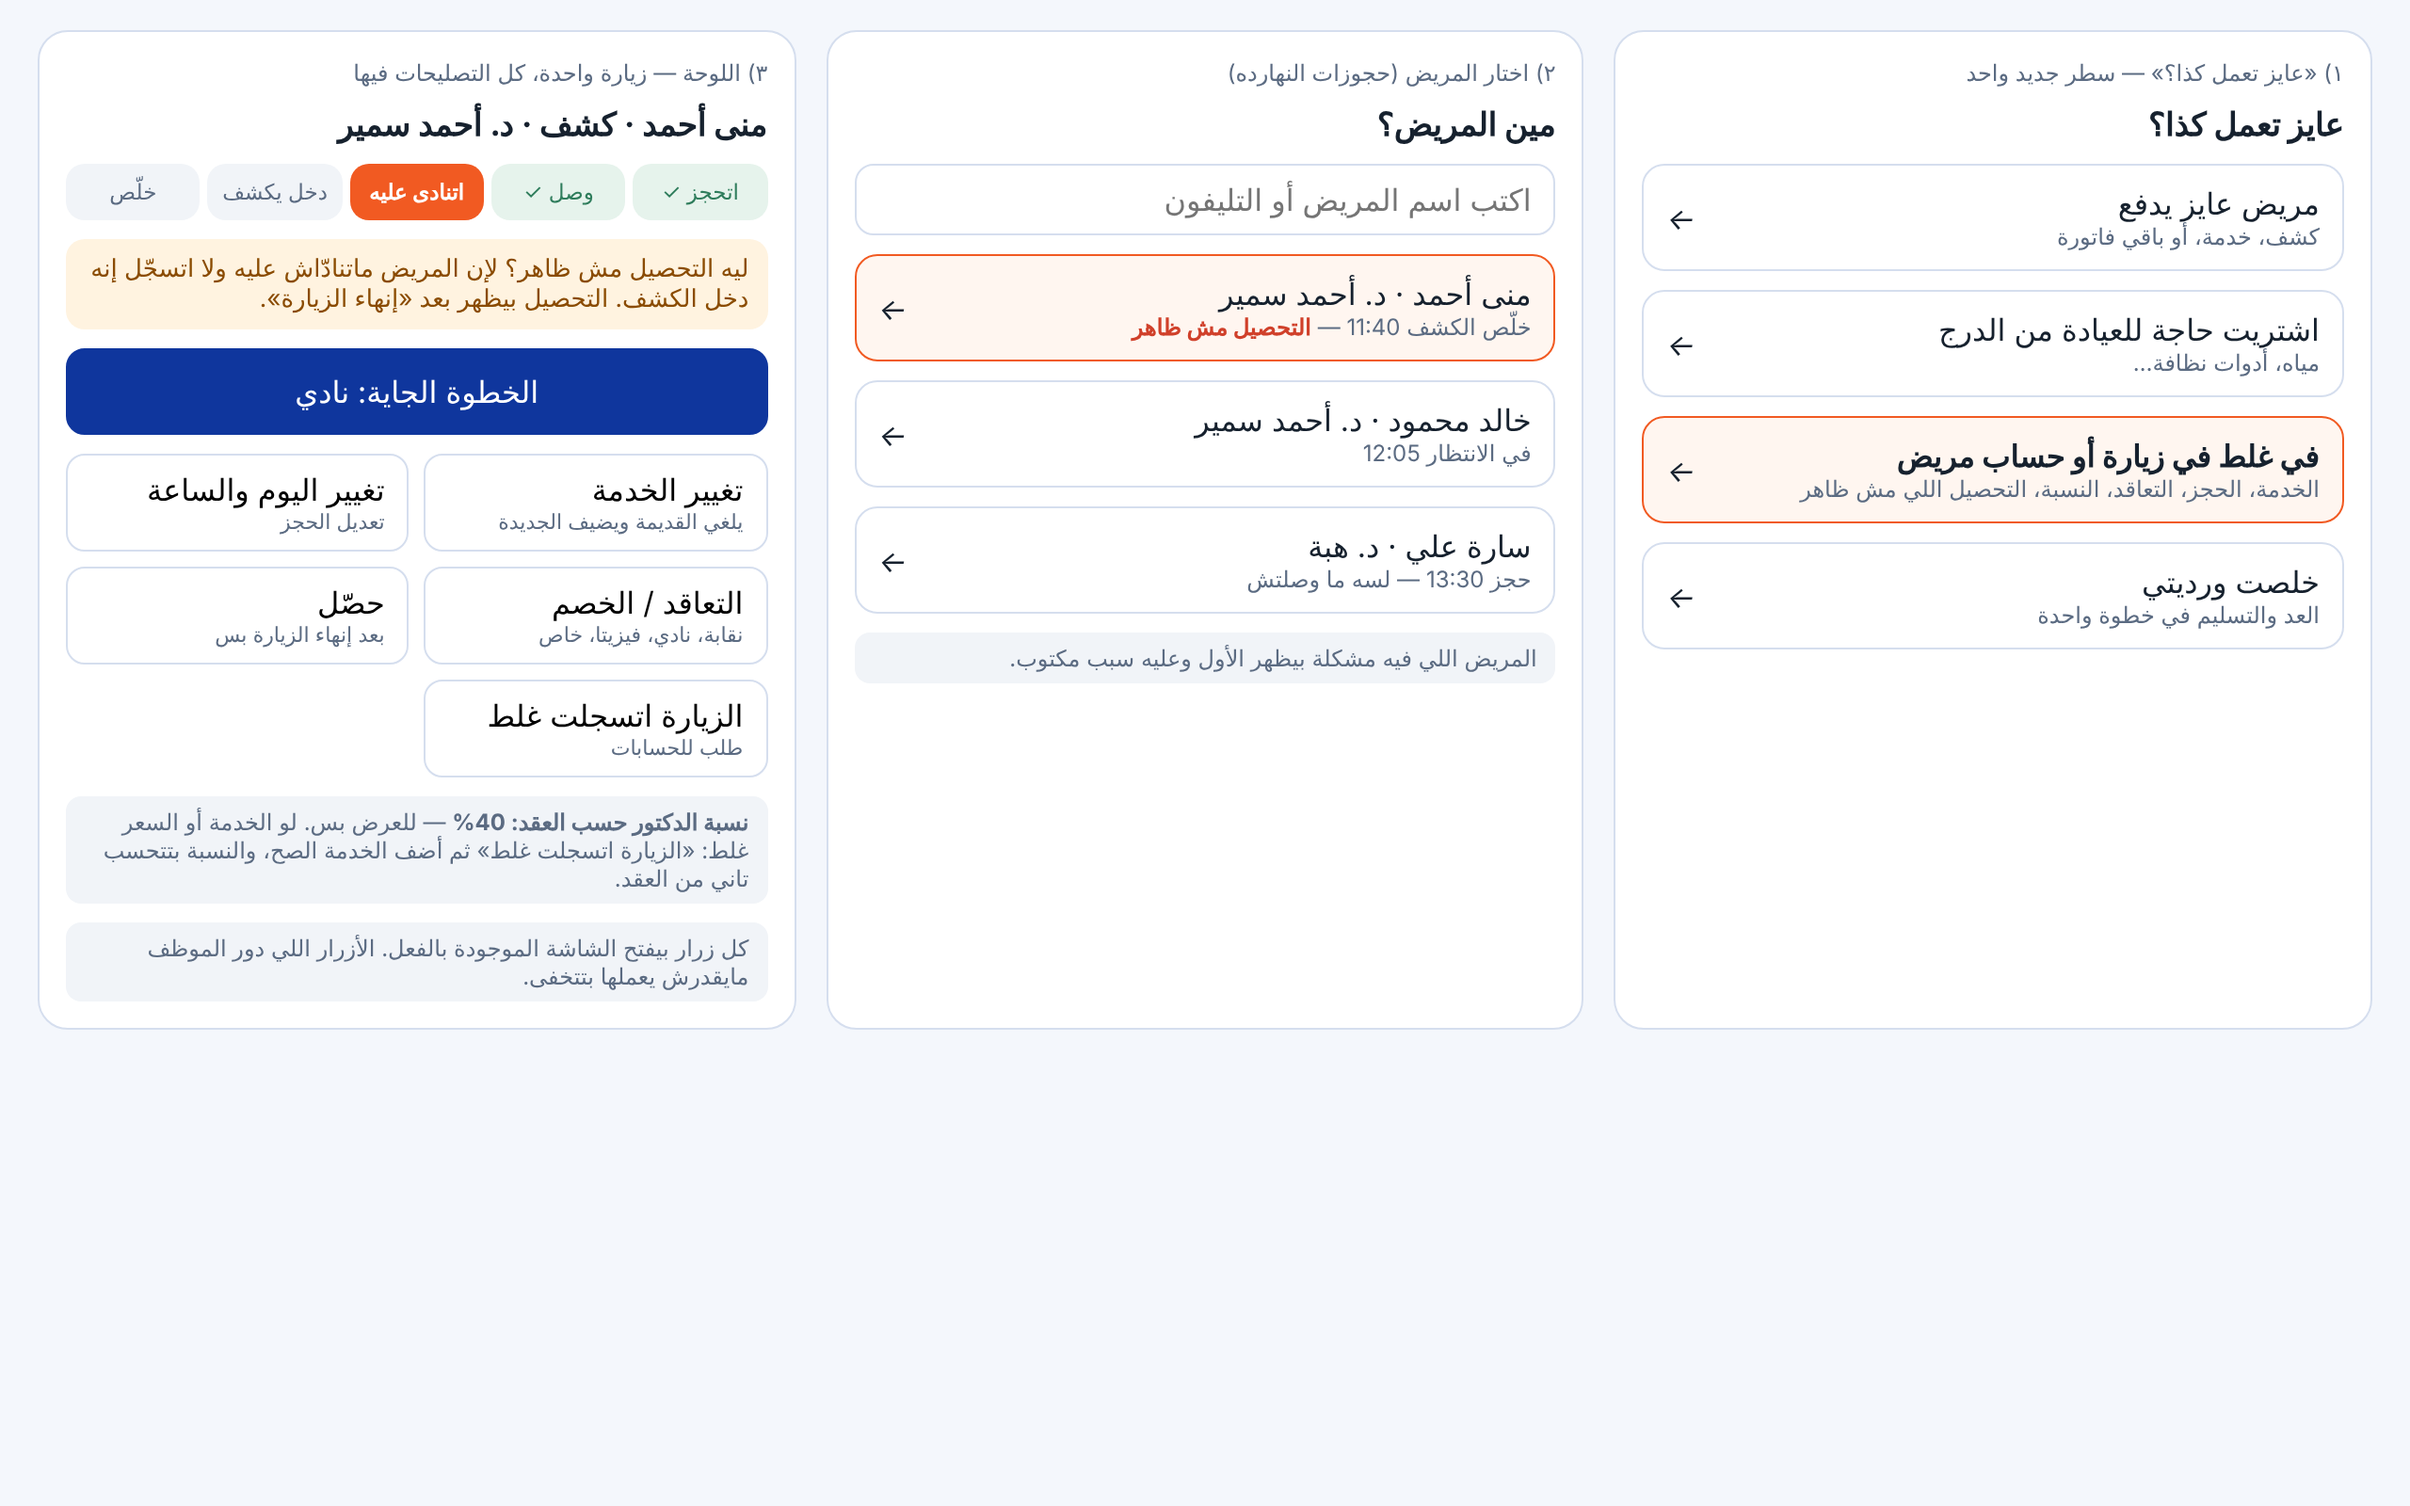
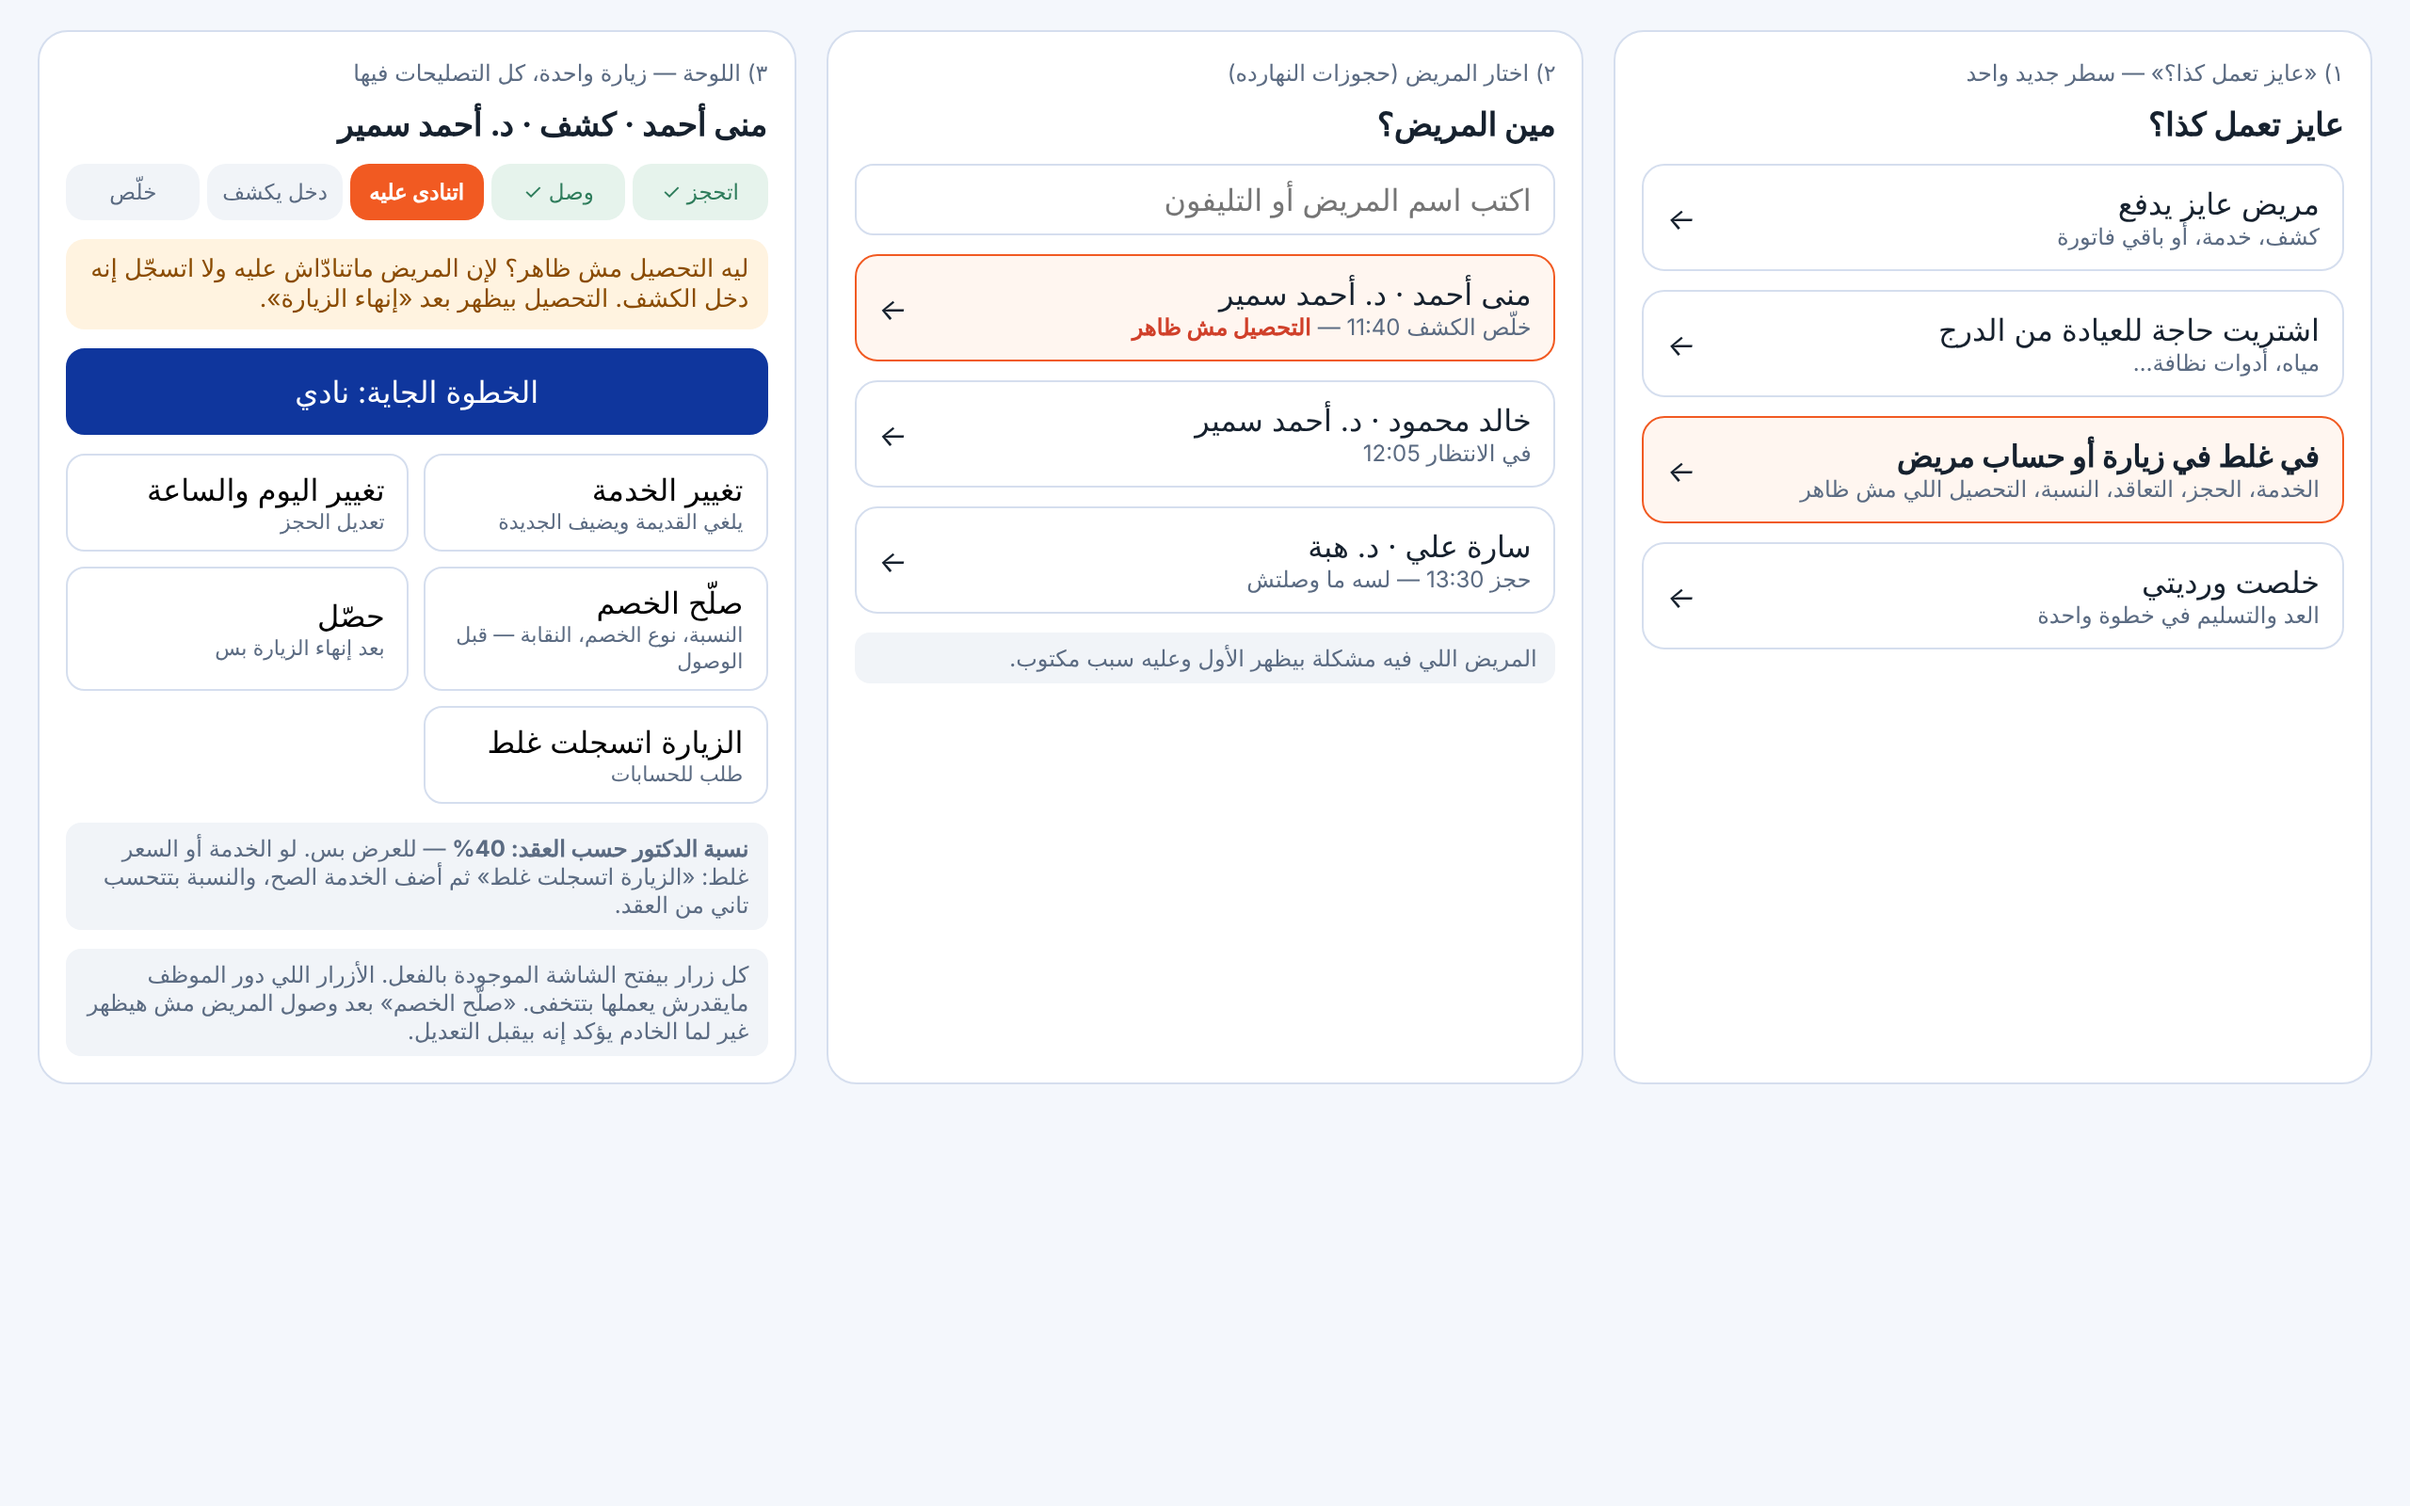
Mockup: «صلّح الخصم» replaces contract/discount button

Changed region(s): [[0.0312, 0.375, 0.3125, 0.5938], [0.0312, 0.625, 0.3125, 0.6875], [0.0938, 0.4062, 0.1562, 0.4375]]

diff --git a/docs/ui-references/mockups/fix-visit-panel.html b/docs/ui-references/mockups/fix-visit-panel.html
@@ -30,7 +30,7 @@
 <div class="why">ليه التحصيل مش ظاهر؟ لإن المريض ماتنادّاش عليه ولا اتسجّل إنه دخل الكشف. التحصيل بيظهر بعد «إنهاء الزيارة».</div>
 <button class="btn pri next">الخطوة الجاية: نادي</button>
 <div class="acts"><button class="btn">تغيير الخدمة<small>يلغي القديمة ويضيف الجديدة</small></button><button class="btn">تغيير اليوم والساعة<small>تعديل الحجز</small></button>
-<button class="btn">التعاقد / الخصم<small>نقابة، نادي، فيزيتا، خاص</small></button><button class="btn">حصّل<small>بعد إنهاء الزيارة بس</small></button>
+<button class="btn">صلّح الخصم<small>النسبة، نوع الخصم، النقابة — قبل الوصول</small></button><button class="btn">حصّل<small>بعد إنهاء الزيارة بس</small></button>
 <button class="btn">الزيارة اتسجلت غلط<small>طلب للحسابات</small></button></div><div class="note fin2"><b>نسبة الدكتور حسب العقد: 40%</b> — للعرض بس. لو الخدمة أو السعر غلط: «الزيارة اتسجلت غلط» ثم أضف الخدمة الصح، والنسبة بتتحسب تاني من العقد.</div>
-<div class="note">كل زرار بيفتح الشاشة الموجودة بالفعل. الأزرار اللي دور الموظف مايقدرش يعملها بتتخفى.</div></div>
+<div class="note">كل زرار بيفتح الشاشة الموجودة بالفعل. الأزرار اللي دور الموظف مايقدرش يعملها بتتخفى. «صلّح الخصم» بعد وصول المريض مش هيظهر غير لما الخادم يؤكد إنه بيقبل التعديل.</div></div>
 </div>
